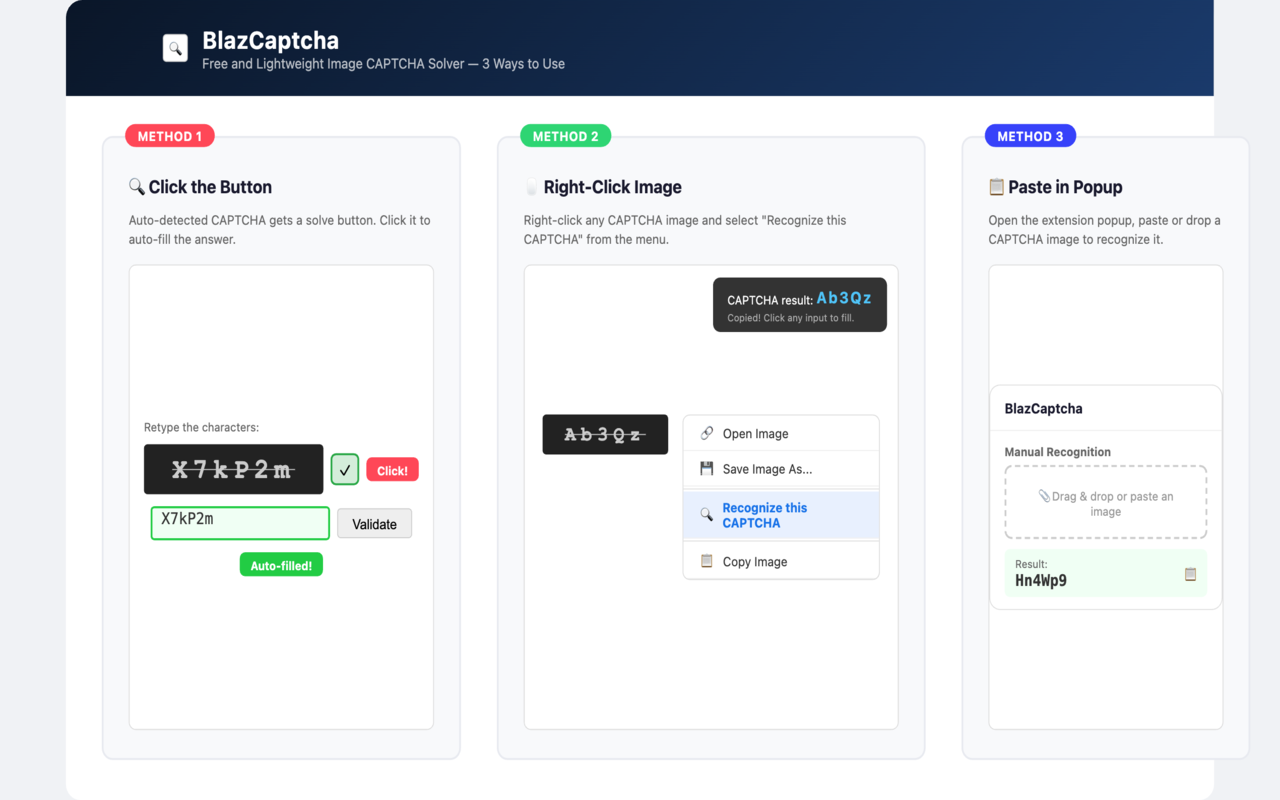
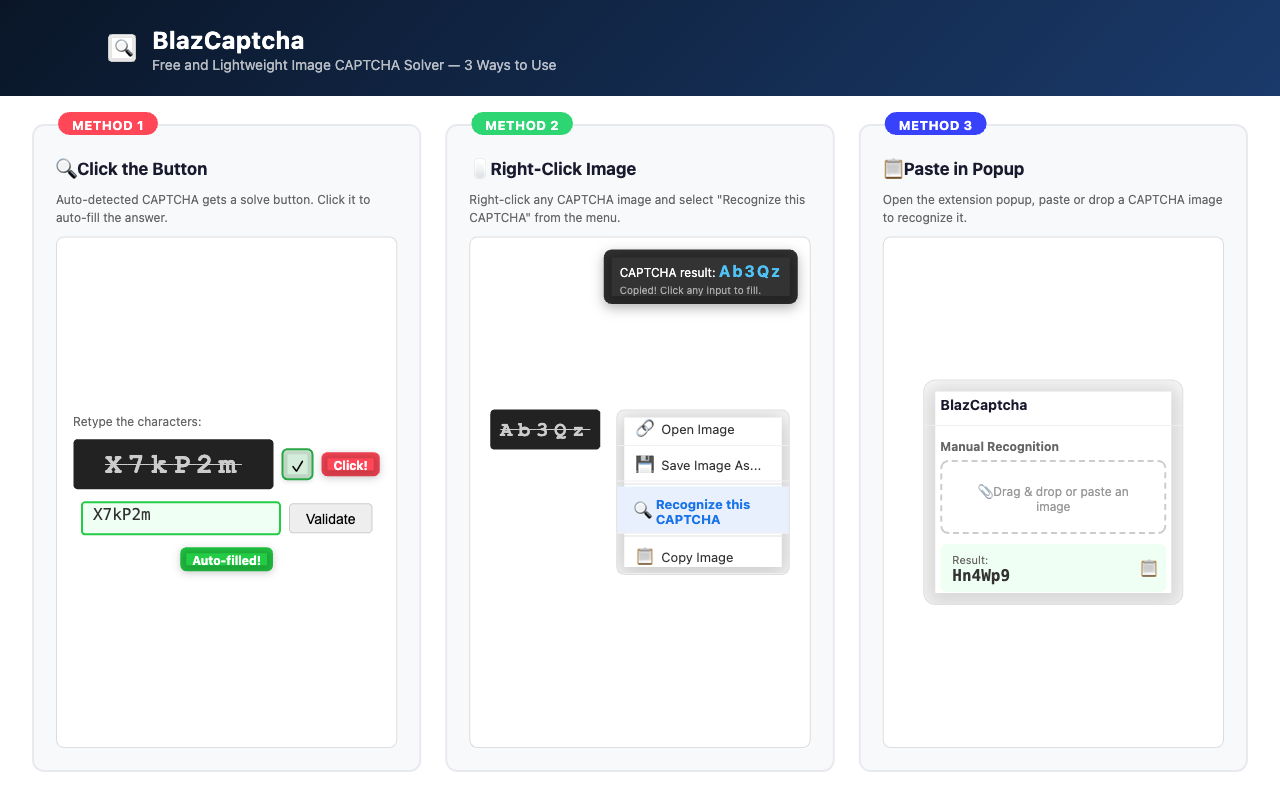
chore: 更新 Chrome Web Store 截圖與圖示
- 新增英文與中文兩版上架截圖（screenshot_en.png、screenshot_zh.png）
- 新增中文版 demo HTML（demo-zh.html），demo.html 同步微調版面
  （間距與字級收緊），供重拍 screenshot_store.png 使用
- 新增 store-assets/store_icon_128x128.png 作為上架圖示

diff --git a/screenshots/demo-zh.html b/screenshots/demo-zh.html
@@ -1,11 +1,11 @@
 <!DOCTYPE html>
-<html lang="en">
+<html lang="zh-TW">
 <head>
 <meta charset="UTF-8">
-<title>BlazCaptcha Demo Screenshots</title>
+<title>BlazCaptcha 截圖 (正體中文)</title>
 <style>
 * { margin: 0; padding: 0; box-sizing: border-box; }
-body { font-family: -apple-system, BlinkMacSystemFont, 'Segoe UI', Roboto, sans-serif; background: #f0f2f5; display: flex; justify-content: center; align-items: center; min-height: 100vh; }
+body { font-family: -apple-system, BlinkMacSystemFont, 'Segoe UI', Roboto, 'Microsoft JhengHei', sans-serif; background: #f0f2f5; display: flex; justify-content: center; align-items: center; min-height: 100vh; }
 
 .card {
   width: 1280px; height: 800px; background: white; border-radius: 16px;
@@ -146,73 +146,73 @@ body { font-family: -apple-system, BlinkMacSystemFont, 'Segoe UI', Roboto, sans-
     <img src="icons/icon128.png" alt="BlazCaptcha">
     <div>
       <h1>BlazCaptcha</h1>
-      <div class="subtitle">Free and Lightweight Image CAPTCHA Solver — 3 Ways to Use</div>
+      <div class="subtitle">免費、輕量的圖片驗證碼填入工具 — 三種使用方式</div>
     </div>
   </div>
 
   <div class="content">
-    <!-- Panel 1: Click Button -->
+    <!-- Panel 1: 點擊按鈕 -->
     <div class="panel">
-      <span class="panel-number">METHOD 1</span>
-      <h2>🔍 Click the Button</h2>
-      <p>Auto-detected CAPTCHA gets a solve button. Click it to auto-fill the answer.</p>
+      <span class="panel-number">方法 1</span>
+      <h2>🔍 點擊按鈕</h2>
+      <p>自動偵測到的驗證碼旁會出現辨識按鈕，點擊即可自動填入答案。</p>
       <div class="demo-area">
         <div class="captcha-demo">
-          <div style="font-size:12px;color:#666;align-self:flex-start;">Retype the characters:</div>
+          <div style="font-size:12px;color:#666;align-self:flex-start;">請輸入驗證碼：</div>
           <div class="captcha-img-row">
             <div class="captcha-img">X7kP2m</div>
             <div class="solve-btn success">✓</div>
-            <div class="arrow-label" style="position:relative; top:0;">Click!</div>
+            <div class="arrow-label" style="position:relative; top:0;">點擊！</div>
           </div>
           <div class="input-row">
             <input class="captcha-input" value="X7kP2m" readonly>
-            <button class="validate-btn">Validate</button>
+            <button class="validate-btn">驗證</button>
           </div>
-          <div class="arrow-label green" style="position:relative;">Auto-filled!</div>
+          <div class="arrow-label green" style="position:relative;">自動填入！</div>
         </div>
       </div>
     </div>
 
-    <!-- Panel 2: Right-Click -->
+    <!-- Panel 2: 右鍵點擊 -->
     <div class="panel">
-      <span class="panel-number">METHOD 2</span>
-      <h2>🖱 Right-Click Image</h2>
-      <p>Right-click any CAPTCHA image and select "Recognize this CAPTCHA" from the menu.</p>
+      <span class="panel-number">方法 2</span>
+      <h2>🖱 右鍵點擊圖片</h2>
+      <p>在任何驗證碼圖片上按右鍵，選擇「辨識這個驗證碼」。</p>
       <div class="demo-area" style="align-items: flex-start; padding: 20px;">
         <div style="display:flex; gap:16px; align-items: flex-start; width:100%;">
           <div class="captcha-img" style="width:140px; height:40px; font-size:20px;">Ab3Qz</div>
           <div class="context-menu">
-            <div class="ctx-item"><span class="icon">🔗</span> Open Image</div>
-            <div class="ctx-item"><span class="icon">💾</span> Save Image As...</div>
+            <div class="ctx-item"><span class="icon">🔗</span> 開啟圖片</div>
+            <div class="ctx-item"><span class="icon">💾</span> 圖片另存為...</div>
             <div class="ctx-sep"></div>
-            <div class="ctx-item highlight"><span class="icon">🔍</span> <strong>Recognize this CAPTCHA</strong></div>
+            <div class="ctx-item highlight"><span class="icon">🔍</span> <strong>辨識這個驗證碼</strong></div>
             <div class="ctx-sep"></div>
-            <div class="ctx-item"><span class="icon">📋</span> Copy Image</div>
+            <div class="ctx-item"><span class="icon">📋</span> 複製圖片</div>
           </div>
         </div>
         <div class="toast-demo">
-          <div>CAPTCHA result: <span class="result">Ab3Qz</span></div>
-          <div class="hint">Copied! Click any input to fill.</div>
+          <div>驗證碼結果：<span class="result">Ab3Qz</span></div>
+          <div class="hint">已複製！點擊任意輸入框填入。</div>
         </div>
       </div>
     </div>
 
-    <!-- Panel 3: Popup Paste -->
+    <!-- Panel 3: 貼上圖片 -->
     <div class="panel">
-      <span class="panel-number">METHOD 3</span>
-      <h2>📋 Paste in Popup</h2>
-      <p>Open the extension popup, paste or drop a CAPTCHA image to recognize it.</p>
+      <span class="panel-number">方法 3</span>
+      <h2>📋 貼上圖片到彈出視窗</h2>
+      <p>點擊擴充功能圖示開啟彈出視窗，貼上或拖放驗證碼圖片即可辨識。</p>
       <div class="demo-area">
         <div class="popup-mock">
           <div class="popup-header">BlazCaptcha</div>
           <div class="popup-section">
-            <h3>Manual Recognition</h3>
+            <h3>手動辨識</h3>
             <div class="drop-zone">
-              📎 Drag & drop or paste an image
+              📎 拖放或貼上圖片
             </div>
             <div class="popup-result">
               <div>
-                <div class="label">Result:</div>
+                <div class="label">結果：</div>
                 <div class="value">Hn4Wp9</div>
               </div>
               <button class="copy-btn">📋</button>
